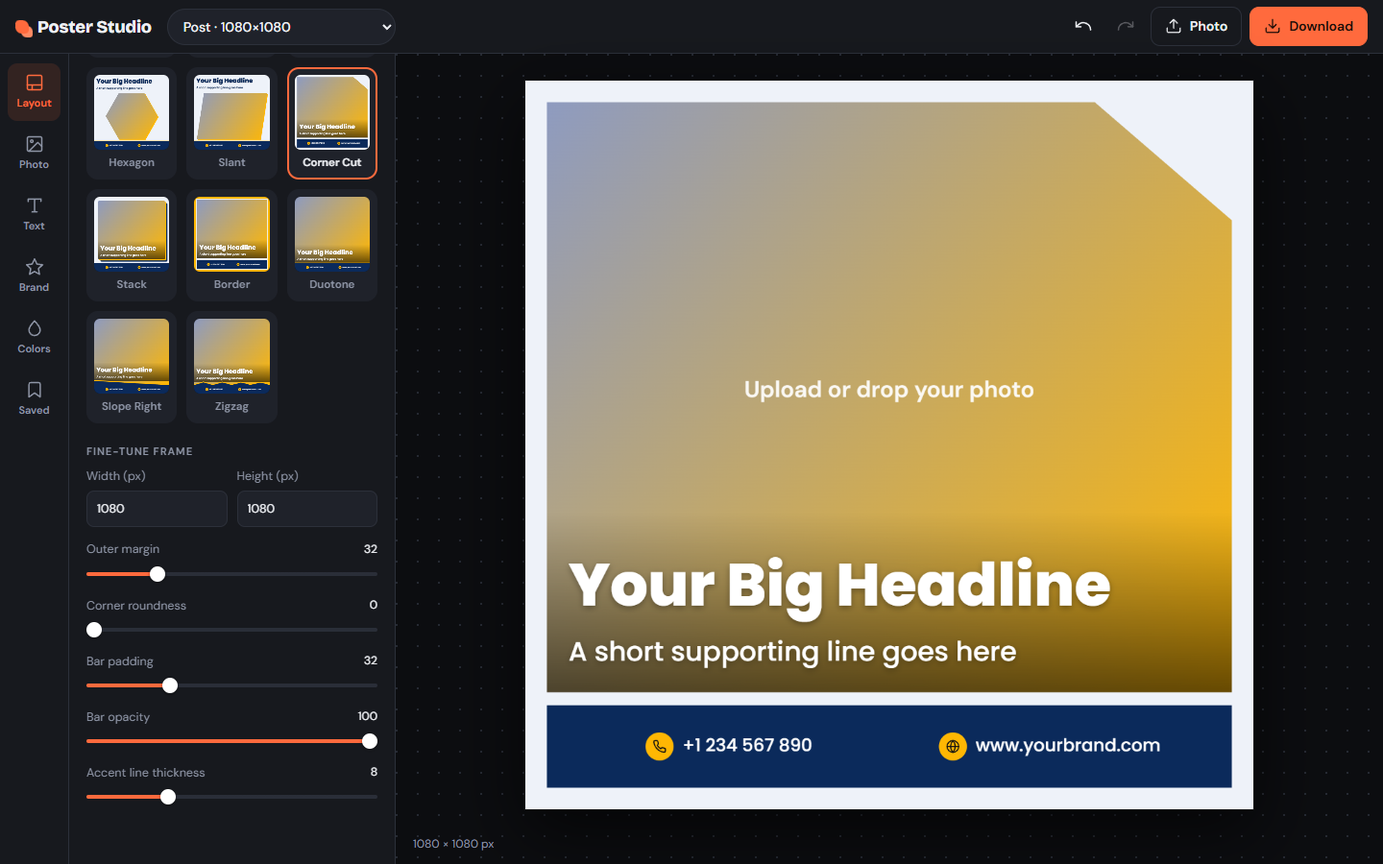
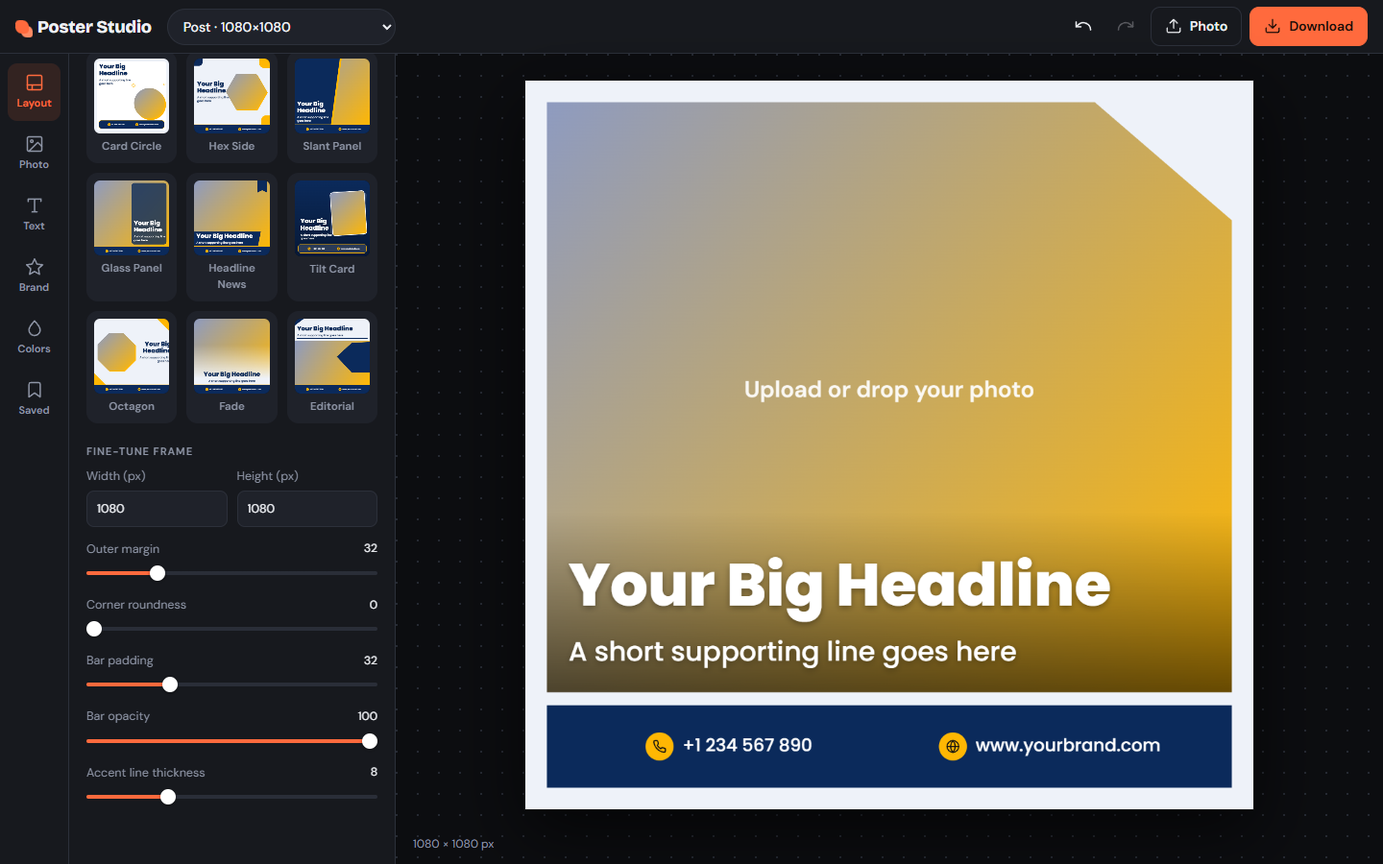
Update README and app.js, add new frame templates and images, and enhance layout functionality

diff --git a/app.js b/app.js
@@ -45,7 +45,7 @@ const TEMPLATES = {
   arch:     { name: 'Arch',     d: { margin: 48, radius: 28 }, bgText: true },
   circle:   { name: 'Circle',   d: { margin: 48, radius: 0 },  bgText: true },
   magazine: { name: 'Magazine', d: { margin: 0,  radius: 0 },  bgText: true },
-  ribbon:   { name: 'Ribbon',   d: { margin: 0,  radius: 0 } },
+  ribbon:   { name: 'Ribbon',   d: { margin: 0,  radius: 0 }, noScrim: true },
   curve:    { name: 'Curve',    d: { margin: 0,  radius: 90 } },
   pill:     { name: 'Pill',     d: { margin: 48, radius: 28 }, bgText: true },
   leafr:    { name: 'Leaf Flip',d: { margin: 36, radius: 110 }, floating: true },
@@ -59,7 +59,17 @@ const TEMPLATES = {
   border:   { name: 'Border',   d: { margin: 44, radius: 0 },  floating: true },
   duotone:  { name: 'Duotone',  d: { margin: 0,  radius: 0 } },
   diagonalr:{ name: 'Slope Right', d: { margin: 0, radius: 0 } },
-  zigzag:   { name: 'Zigzag',   d: { margin: 0,  radius: 0 } }
+  zigzag:   { name: 'Zigzag',   d: { margin: 0,  radius: 0 } },
+  neon:     { name: 'Neon Frame', d: { margin: 64, radius: 36 }, floating: true },
+  cardcircle:{ name: 'Card Circle', d: { margin: 40, radius: 44 }, floating: true, barInset: 1.7, bgText: true },
+  hexside:  { name: 'Hex Side', d: { margin: 44, radius: 0 }, bgText: true, poly: [[.25, 0], [.75, 0], [1, .5], [.75, 1], [.25, 1], [0, .5]] },
+  slantpanel:{ name: 'Slant Panel', d: { margin: 0, radius: 0 }, noScrim: true },
+  glass:    { name: 'Glass Panel', d: { margin: 36, radius: 40 }, noScrim: true },
+  news:     { name: 'Headline News', d: { margin: 0, radius: 0 }, noScrim: true },
+  tilt:     { name: 'Tilt Card', d: { margin: 48, radius: 36 }, floating: true, noScrim: true },
+  octagon:  { name: 'Octagon',  d: { margin: 48, radius: 0 }, bgText: true, poly: [[.3, 0], [.7, 0], [1, .3], [1, .7], [.7, 1], [.3, 1], [0, .7], [0, .3]] },
+  fade:     { name: 'Fade',     d: { margin: 0,  radius: 0 }, bgText: true },
+  editorial:{ name: 'Editorial', d: { margin: 0, radius: 0 }, bgText: true }
 };
 
 const PALETTES = [
@@ -217,9 +227,15 @@ function measureBlocks(maxW, u) {
   ['headline', 'subtitle'].forEach(k => {
     const T = state[k];
     if (!T.on || !T.text.trim()) return;
-    const size = T.size * u;
-    setTextFont(T, size, u);
-    const lines = wrap(T.upper ? T.text.toUpperCase() : T.text, maxW - (T.bxOn ? 2 * T.bxPad * u : 0));
+    let size = T.size * u, lines;
+    const avail = maxW - (T.bxOn ? 2 * T.bxPad * u : 0), txt = T.upper ? T.text.toUpperCase() : T.text;
+    for (let pass = 0; pass < 3; pass++) {
+      setTextFont(T, size, u);
+      lines = wrap(txt, avail);
+      const widest = Math.max(...lines.map(l => ctx.measureText(l).width));
+      if (widest <= avail + 1) break;
+      size = Math.max(size * avail / widest * 0.98, T.size * u * 0.4);   // shrink so a long word never spills out of its area
+    }
     blocks.push({ k, T, size, lh: size * T.lh, lines });
   });
   resetSpacing();
@@ -242,7 +258,8 @@ function layout() {
     : T === 'wave' ? x => edgeAmp * (0.5 + 0.5 * Math.cos(x / W * Math.PI * 3))
     : T === 'zigzag' ? x => edgeAmp * Math.abs(((x / W * 8) % 2) - 1) : () => 0;
   const floating = !!TP.floating;
-  const barW = floating ? W - 2 * m : W;
+  const bi = m * (TP.barInset || 1);
+  const barW = floating ? W - 2 * bi : W;
   const innerW = barW - 2 * pad;
 
   let logoH = 0, logoW = 0;
@@ -269,12 +286,12 @@ function layout() {
   const hasBar = logoInBar || items.length > 0;
   const barH = hasBar ? contentH + 2 * pad + edgeAmp : 0;
 
-  const bar = floating ? { x: m, y: H - barH - m, w: barW, h: barH } : { x: 0, y: H - barH, w: W, h: barH };
+  const bar = floating ? { x: bi, y: H - barH - bi, w: barW, h: barH } : { x: 0, y: H - barH, w: W, h: barH };
 
   const tb = measureBlocks(W - 2 * pad, u);
   const tz = TP.bgText && tb ? tb.h + pad * 1.3 : 0;
 
-  let photo, photoR = 0, textArea = null, ring = null, offsetShape = false, splitTb = null;
+  let photo, photoR = 0, textArea = null, ring = null, offsetShape = false, splitTb = null, rot = 0, deco = null;
   const barTop = hasBar ? bar.y : H;
   switch (T) {
     case 'overlay': photo = { x: 0, y: 0, w: W, h: H }; break;
@@ -284,7 +301,71 @@ function layout() {
       textArea = { x: 0, w: W, y0: pad * 0.65, y1: tz - pad * 0.65, pos: 'top' };
       break;
     }
-    case 'framed': case 'outline': case 'leaf': case 'leafr': case 'cut': case 'border': {
+    case 'cardcircle': {
+      const card = { x: m, y: m, w: W - 2 * m, h: H - 2 * m };
+      const aBottom = hasBar ? bar.y - pad * 0.6 : H - m - pad;
+      const d = Math.max(Math.min(card.w * 0.44, aBottom - card.y - pad * 2), 60);
+      const cx = card.x + card.w - d / 2 - pad * 0.8, cy = aBottom - d / 2 - pad * 0.2;
+      photo = { x: cx - d / 2, y: cy - d / 2, w: d, h: d }; photoR = d / 2;
+      const tw = Math.max(card.w - d - pad * 3, 120);
+      splitTb = measureBlocks(tw, u);
+      textArea = { x: card.x, w: tw + 2 * pad, y0: card.y + pad * 0.9, y1: aBottom - pad, pos: 'top', align: 'left' };
+      deco = { card, cx, cy, d }; break;
+    }
+    case 'hexside': {
+      const mm = Math.max(m, pad * 0.8), availH = Math.max(barTop - 2 * mm, 100);
+      const pw = Math.min(W * 0.54, availH / 0.88);
+      photo = { x: W - mm - pw, y: mm + (availH - pw * 0.88) / 2, w: pw, h: pw * 0.88 };
+      const tw = Math.max(photo.x - mm - pad * 0.5, 120);
+      splitTb = measureBlocks(tw, u);
+      textArea = { x: mm - pad, w: tw + 2 * pad, y0: mm, y1: mm + availH, pos: 'center', align: 'left' };
+      offsetShape = true; break;
+    }
+    case 'slantpanel': {
+      photo = { x: 0, y: 0, w: W, h: H - barH };
+      const ph = photo.h, pw = W * 0.6, sl = W * 0.12, tw = Math.max(pw - sl - pad * 2, 120);
+      splitTb = measureBlocks(tw, u);
+      textArea = { x: 0, w: tw + 2 * pad, y0: pad, y1: ph - pad, pos: null, align: 'left' };
+      deco = { ph, pw, sl }; break;
+    }
+    case 'glass': {
+      photo = { x: 0, y: 0, w: W, h: H - barH };
+      const panel = { x: W * 0.5, y: m, w: W * 0.5 - m, h: Math.max(photo.h - 2 * m, 60) };
+      splitTb = measureBlocks(Math.max(panel.w - 2 * pad, 120), u);
+      textArea = { x: panel.x, w: panel.w, y0: panel.y + pad, y1: panel.y + panel.h - pad, pos: null, align: 'left' };
+      deco = { panel }; break;
+    }
+    case 'news': photo = { x: 0, y: 0, w: W, h: H - barH }; break;
+    case 'tilt': {
+      const bottom = hasBar ? bar.y - m * 0.5 : H - m, availH = Math.max(bottom - m, 100);
+      const pw = Math.min((W - 2 * m) * 0.5, availH / 1.2), ph = Math.min(pw * 1.25, availH);
+      photo = { x: W - m - pw - pad * 0.4, y: m + (availH - ph) / 2, w: pw, h: ph }; photoR = r; rot = -0.07;
+      const tw = Math.max(photo.x - m - pad * 1.4, 120);
+      splitTb = measureBlocks(tw, u);
+      textArea = { x: m, w: tw + 2 * pad, y0: m + pad, y1: bottom - pad, pos: null, align: 'left' };
+      break;
+    }
+    case 'octagon': {
+      const mm = Math.max(m, pad * 0.8), availH = Math.max(barTop - 2 * mm, 100);
+      const s = Math.min(W * 0.5, availH);
+      photo = { x: mm, y: mm + (availH - s) / 2, w: s, h: s };
+      const tx = photo.x + s + mm * 0.5, tw = Math.max(W - mm - tx, 120);
+      splitTb = measureBlocks(tw, u);
+      textArea = { x: tx - pad, w: tw + 2 * pad, y0: mm, y1: mm + availH, pos: 'center', align: 'right' };
+      offsetShape = true; break;
+    }
+    case 'fade': {
+      photo = { x: 0, y: 0, w: W, h: H - barH };
+      textArea = { x: 0, w: W, y0: pad, y1: barTop - pad, pos: 'bottom', align: 'center' }; break;
+    }
+    case 'editorial': {
+      const ty0 = pad * 3, th = tb ? tb.h : 0, lineH = Math.max(ac * 1.5, 6 * u);
+      const lineY = ty0 + th + pad * 0.35, zoneBottom = tb ? lineY + lineH : ty0, pTop = zoneBottom + pad * 0.8;
+      photo = { x: 0, y: pTop, w: W, h: Math.max(barTop - pTop, 60) };
+      textArea = { x: 0, w: W, y0: ty0, y1: ty0 + th, pos: 'top', align: 'left' };
+      deco = { lineY, lineH, hasText: !!tb }; break;
+    }
+    case 'framed': case 'outline': case 'leaf': case 'leafr': case 'cut': case 'border': case 'neon': {
       const bottom = hasBar ? bar.y - m * 0.6 : H - m;
       photo = { x: m, y: m, w: W - 2 * m, h: bottom - m };
       photoR = T === 'leaf' ? [r, 0, r, 0] : T === 'leafr' ? [0, r, 0, r] : r; break;
@@ -336,7 +417,7 @@ function layout() {
       y1: Math.min(photo.y + photo.h, hasBar ? bar.y - (floating ? pad * 0.3 : 0) : Infinity) - pad, pos: null };
   }
   return { u, m, pad, r, ac, items, logoInBar, logoW, logoH, left, gridW, fs, iconS, gap, cols, rows, rowH, gridH, cellW,
-    contentH, hasBar, barH, bar, photo, photoR, edgeAmp, edge, floating, tb: splitTb || tb, textArea, ring, offsetShape, poly: TP.poly || null };
+    contentH, hasBar, barH, bar, photo, photoR, edgeAmp, edge, floating, tb: splitTb || tb, textArea, ring, offsetShape, poly: TP.poly || null, rot, deco, barTop };
 }
 
 /* =====================================================================
@@ -401,6 +482,7 @@ function render(forExport) {
   ctx.textBaseline = 'alphabetic'; ctx.textAlign = 'left'; resetSpacing();
 
   ctx.fillStyle = S.colors.bg; ctx.fillRect(0, 0, S.w, S.h);
+  drawDecor(L, 'under');
 
   // offset accent shape (pop / arch)
   if (L.offsetShape && L.m > 0) {
@@ -418,13 +500,18 @@ function render(forExport) {
   // curve: bar color behind the rounded photo corners
   if (T === 'curve') { ctx.fillStyle = S.colors.bar; ctx.fillRect(0, photo.y + photo.h - L.r * 2, S.w, S.h); }
 
-  // photo
+  // photo (tilt layouts rotate it around its centre)
+  let rotated = false;
+  if (L.rot) {
+    const rx = photo.x + photo.w / 2, ry = photo.y + photo.h / 2;
+    ctx.save(); ctx.translate(rx, ry); ctx.rotate(L.rot); ctx.translate(-rx, -ry); rotated = true;
+  }
   ctx.save();
   shapePath(L, photo.x, photo.y, photo.w, photo.h); ctx.clip();
   if (photoImg) {
-    const c = coverParams(photo), P = S.photo, duo = T === 'duotone';
-    const f = (duo || P.brightness !== 100 || P.contrast !== 100 || P.saturation !== 100) && 'filter' in ctx;
-    if (f) ctx.filter = `brightness(${P.brightness}%) contrast(${P.contrast}%) saturate(${duo ? 0 : P.saturation}%)${duo ? ' contrast(1.15)' : ''}`;
+    const c = coverParams(photo), P = S.photo, duo = T === 'duotone', gray = duo || T === 'news';
+    const f = (gray || P.brightness !== 100 || P.contrast !== 100 || P.saturation !== 100) && 'filter' in ctx;
+    if (f) ctx.filter = `brightness(${P.brightness}%) contrast(${P.contrast}%) saturate(${gray ? 0 : P.saturation}%)${duo ? ' contrast(1.15)' : ''}`;
     ctx.drawImage(photoImg, c.x, c.y, c.dw, c.dh);
     if (f) ctx.filter = 'none';
     if (duo) {
@@ -445,7 +532,7 @@ function render(forExport) {
     }
   }
   const tb = L.tb, H = S.headline;
-  if (!TP.bgText && T !== 'ribbon' && H.scrim && tb && H.pos !== 'center') {
+  if (!TP.bgText && !TP.noScrim && H.scrim && tb && H.pos !== 'center') {
     const h = tb.h + pad * 3, ta = L.textArea;
     if (H.pos === 'top') {
       const g = ctx.createLinearGradient(0, photo.y, 0, photo.y + h);
@@ -459,6 +546,9 @@ function render(forExport) {
     }
   }
   ctx.restore();
+  if (T === 'tilt') { ctx.strokeStyle = '#ffffff'; ctx.lineWidth = 8 * u; shapePath(L, photo.x, photo.y, photo.w, photo.h); ctx.stroke(); }
+  if (rotated) ctx.restore();
+  drawDecor(L, 'over');
 
   // logo on photo
   if (logoImg && S.logo.placement.startsWith('photo')) {
@@ -466,7 +556,7 @@ function render(forExport) {
     ctx.drawImage(logoImg, lx, photo.y + pad, L.logoW, L.logoH);
   }
 
-  if (tb) drawText(tb, L.textArea, pad, u, TP.bgText, T === 'ribbon' ? S.colors.bar : null);
+  if (tb) drawText(tb, L.textArea, pad, u, TP.bgText, bandFor(L, T));
   if (L.hasBar) drawBar(L, T);
 
   // border template: thick accent frame
@@ -484,19 +574,96 @@ function render(forExport) {
   return L;
 }
 
+// A coloured band drawn behind the text block (Ribbon, Headline News)
+function bandFor(L, T) {
+  const S = state, ta = L.textArea, pad = L.pad, ac = L.ac;
+  if (T === 'ribbon') return (y, h) => { ctx.fillStyle = S.colors.bar; ctx.fillRect(ta.x, y - pad * 0.5, ta.w, h + pad); };
+  if (T === 'news') return (y, h) => {
+    const x0 = ta.x, x1 = ta.x + ta.w * 0.88, sk = pad * 1.2, y0 = y - pad * 0.5, y1 = y + h + pad * 0.5;
+    ctx.fillStyle = S.colors.bar;
+    ctx.beginPath(); ctx.moveTo(x0, y0); ctx.lineTo(x1, y0); ctx.lineTo(x1 - sk, y1); ctx.lineTo(x0, y1); ctx.closePath(); ctx.fill();
+    ctx.fillStyle = S.colors.accent; ctx.fillRect(x0, y1, (x1 - x0) * 0.6, Math.max(ac, 4 * L.u));
+  };
+  return null;
+}
+
+function shade(hex, f) {
+  const n = parseInt(hex.slice(1), 16);
+  const c = v => Math.round(clamp(v + (f < 0 ? v * f : (255 - v) * f), 0, 255));
+  return `rgb(${c(n >> 16)},${c((n >> 8) & 255)},${c(n & 255)})`;
+}
+
+// Template-specific decoration. 'under' runs before the photo, 'over' after it (before text and bar).
+function drawDecor(L, phase) {
+  const S = state, T = S.template, C = S.colors, W = S.w, H = S.h, u = L.u, pad = L.pad, ac = L.ac, D = L.deco, ph = L.photo;
+  const poly = (pts, fill) => {
+    ctx.beginPath(); pts.forEach(([x, y], i) => (i ? ctx.lineTo(x, y) : ctx.moveTo(x, y))); ctx.closePath();
+    ctx.fillStyle = fill; ctx.fill();
+  };
+  if (phase === 'under') {
+    if (T === 'cardcircle') {
+      ctx.fillStyle = lum(C.bg) < 0.5 ? 'rgba(255,255,255,0.08)' : '#ffffff';
+      rr(D.card.x, D.card.y, D.card.w, D.card.h, L.r); ctx.fill();
+      ctx.fillStyle = C.accent; ctx.beginPath(); ctx.arc(D.cx + D.d * 0.05, D.cy + D.d * 0.05, D.d / 2, 0, Math.PI * 2); ctx.fill();
+      ctx.strokeStyle = C.accent; ctx.lineWidth = Math.max(ac * 0.4, 2 * u);
+      ctx.beginPath(); ctx.arc(D.cx - D.d * 0.52, D.cy - D.d * 0.58, D.d * 0.05, 0, Math.PI * 2); ctx.stroke();
+      ctx.beginPath(); ctx.arc(D.cx + D.d * 0.5, D.cy - D.d * 0.62, D.d * 0.03, 0, Math.PI * 2); ctx.stroke();
+    } else if (T === 'hexside') {
+      const s = W * 0.14;
+      ctx.fillStyle = C.accent; rr(W - s, 0, s, s * 0.9, [0, 0, 0, s * 0.5]); ctx.fill();
+      rr(W - s * 0.8, L.barTop - s * 0.9, s * 0.8, s * 0.9, [s * 0.4, 0, 0, 0]); ctx.fill();
+      ctx.fillStyle = C.bar; rr(0, 0, s * 0.8, s * 0.7, [0, 0, s * 0.5, 0]); ctx.fill();
+    } else if (T === 'octagon') {
+      poly([[W * 0.84, 0], [W, 0], [W, W * 0.16]], C.accent);
+      poly([[0, L.barTop - W * 0.16], [W * 0.16, L.barTop], [0, L.barTop]], C.accent);
+    } else if (T === 'tilt') {
+      const g = ctx.createLinearGradient(0, 0, 0, H); g.addColorStop(0, C.bar); g.addColorStop(1, shade(C.bar, -0.4));
+      ctx.fillStyle = g; ctx.fillRect(0, 0, W, H);
+      const rx = ph.x + ph.w / 2, ry = ph.y + ph.h / 2;
+      ctx.save(); ctx.translate(rx, ry); ctx.rotate(0.05); ctx.translate(-rx, -ry);
+      ctx.fillStyle = 'rgba(255,255,255,0.18)'; rr(ph.x, ph.y, ph.w, ph.h, L.r); ctx.fill(); ctx.restore();
+    } else if (T === 'editorial') {
+      poly([[0, 0], [W * 0.12, 0], [0, W * 0.09]], C.bar);
+      if (D.hasText) { ctx.fillStyle = C.bar; ctx.fillRect(pad, D.lineY, W - 2 * pad, D.lineH); }
+    }
+    return;
+  }
+  // phase === 'over'
+  if (T === 'neon') {
+    const o = L.m * 0.4;
+    ctx.strokeStyle = C.accent; ctx.lineWidth = Math.max(ac * 0.7, 3 * u);
+    rr(ph.x - o, ph.y + o, ph.w, ph.h, L.r); ctx.stroke();
+  } else if (T === 'slantpanel') {
+    const t = ac * 2.4 + 8 * u;
+    poly([[D.pw, 0], [D.pw + t, 0], [D.pw - D.sl + t, D.ph], [D.pw - D.sl, D.ph]], C.accent);
+    poly([[0, 0], [D.pw, 0], [D.pw - D.sl, D.ph], [0, D.ph]], C.bar);
+  } else if (T === 'glass') {
+    ctx.fillStyle = rgba(C.bar, 0.8); rr(D.panel.x, D.panel.y, D.panel.w, D.panel.h, L.r); ctx.fill();
+  } else if (T === 'news') {
+    const tw = W * 0.13, x0 = W - pad * 1.2 - tw;
+    poly([[x0, 0], [x0 + tw, 0], [x0 + tw, tw * 1.25], [x0 + tw / 2, tw * 1.0], [x0, tw * 1.25]], C.bar);
+  } else if (T === 'fade') {
+    const y0 = ph.h * 0.4, g = ctx.createLinearGradient(0, y0, 0, ph.h * 0.9);
+    g.addColorStop(0, rgba(C.bg, 0)); g.addColorStop(1, rgba(C.bg, 1));
+    ctx.fillStyle = g; ctx.fillRect(0, y0, W, ph.h - y0 + 1);
+  } else if (T === 'editorial') {
+    poly([[W * 0.56, ph.y + ph.h * 0.36], [W * 0.76, ph.y + ph.h * 0.05], [W, ph.y + ph.h * 0.03], [W, ph.y + ph.h * 0.72], [W * 0.76, ph.y + ph.h * 0.72]], C.bar);
+  }
+}
+
 function drawText(tb, area, pad, u, onBg, band) {
   const H = state.headline;
-  const pos = area.pos || H.pos;
+  const pos = area.pos || H.pos, al = area.align || H.align;
   let y;
   if (pos === 'top') y = area.y0;
   else if (pos === 'bottom') y = area.y1 - tb.h;
   else y = (area.y0 + area.y1) / 2 - tb.h / 2;
-  if (band) { ctx.fillStyle = band; ctx.fillRect(area.x, y - pad * 0.5, area.w, tb.h + pad); }
+  if (band) band(y, tb.h);
   tb.blocks.forEach((b, bi) => {
     const T = b.T, bx = T.bxOn ? T.bxPad * u : 0;
     let ax;
-    if (H.align === 'left') ax = area.x + pad + bx; else if (H.align === 'right') ax = area.x + area.w - pad - bx; else ax = area.x + area.w / 2;
-    b.lines.forEach(ln => { drawLine(T, ln, ax, y, b.size, b.lh, H.align, u, onBg ? T.colorBg : T.color); y += b.lh; });
+    if (al === 'left') ax = area.x + pad + bx; else if (al === 'right') ax = area.x + area.w - pad - bx; else ax = area.x + area.w / 2;
+    b.lines.forEach(ln => { drawLine(T, ln, ax, y, b.size, b.lh, al, u, onBg ? T.colorBg : T.color); y += b.lh; });
     if (bi === 0) y += tb.gap;
   });
   resetSpacing();
@@ -546,11 +713,11 @@ function drawBar(L, T) {
     if (ac > 0) { ctx.fillStyle = S.colors.accent; poly(-ac * 1.6); ctx.fill(); }
     ctx.fillStyle = S.colors.bar; poly(0); ctx.fill();
   } else {
-    const topLine = ['classic', 'arch', 'circle', 'magazine', 'pill', 'split', 'ribbon', 'header', 'diamond', 'hexagon', 'slant', 'duotone'].includes(T);
+    const topLine = ['classic', 'arch', 'circle', 'magazine', 'pill', 'split', 'ribbon', 'header', 'diamond', 'hexagon', 'slant', 'duotone', 'hexside', 'slantpanel', 'glass', 'news', 'octagon', 'fade', 'editorial'].includes(T);
     if (topLine && ac > 0) { ctx.fillStyle = S.colors.accent; ctx.fillRect(bar.x, bar.y - ac, bar.w, ac); }
     if (T === 'pop' && ac > 0) { ctx.fillStyle = S.colors.accent; ctx.fillRect(bar.x, bar.y, bar.w, ac); }
-    ctx.fillStyle = S.colors.bar; rr(bar.x, bar.y, bar.w, bar.h, rad); ctx.fill();
-    if (['overlay', 'framed', 'leaf', 'leafr'].includes(T) && ac > 0) {
+    ctx.fillStyle = T === 'tilt' ? 'rgba(255,255,255,0.14)' : S.colors.bar; rr(bar.x, bar.y, bar.w, bar.h, rad); ctx.fill();
+    if (['overlay', 'framed', 'leaf', 'leafr', 'neon', 'cardcircle', 'tilt'].includes(T) && ac > 0) {
       ctx.strokeStyle = S.colors.accent; ctx.lineWidth = ac * 0.5;
       rr(bar.x, bar.y, bar.w, bar.h, rad); ctx.stroke();
     }

diff --git a/README.md b/README.md
@@ -22,7 +22,7 @@ It runs entirely in your browser. There is nothing to install, no account to cre
 - [Live demo](https://posterstudioapp.vercel.app/)
 - [Quick start](#quick-start)
 - [How to make your first poster](#how-to-make-your-first-poster)
-- [Frame template gallery](#frame-template-gallery-26-layouts)
+- [Frame template gallery](#frame-template-gallery-36-layouts)
 - [Editing text and effects](#editing-text-and-effects)
 - [Color themes](#color-themes)
 - [Brand: logo and contact bar](#brand-logo-and-contact-bar)
@@ -58,7 +58,7 @@ Typical uses: _"3 Ton Pickup for Rent"_ ads, product promotions, sale announceme
 
 |                                           |                                                                                                                                                                                                                                                                                            |
 | ----------------------------------------- | ------------------------------------------------------------------------------------------------------------------------------------------------------------------------------------------------------------------------------------------------------------------------------------------ |
-| **26 frame templates**                    | Classic, Overlay, Framed, Diagonal, Wave, Pop, Leaf, Outline, Arch, Circle, Magazine, Ribbon, Curve, Pill, Leaf Flip, Split, Header, Diamond, Hexagon, Slant, Corner Cut, Stack, Border, Duotone, Slope Right and Zigzag. Template previews are drawn live with your own photo and colors. |
+| **36 frame templates**                    | Classic, Overlay, Framed, Diagonal, Wave, Pop, Leaf, Outline, Arch, Circle, Magazine, Ribbon, Curve, Pill, Leaf Flip, Split, Header, Diamond, Hexagon, Slant, Corner Cut, Stack, Border, Duotone, Slope Right, Zigzag, Neon Frame, Card Circle, Hex Side, Slant Panel, Glass Panel, Headline News, Tilt Card, Octagon, Fade and Editorial. Template previews are drawn live with your own photo and colors. |
 | **48 color themes**                       | One click sets the background, bar, accent and text colors together. Or pick every color yourself.                                                                                                                                                                                         |
 | **Full headline and subtitle styling**    | 21 fonts, weight, size, letter spacing, line height, uppercase, italic, gradient fill, shadow or glow, outline and highlight box. Seven one-click quick styles.                                                                                                                            |
 | **Logo and contact bar**                  | Upload your logo once. Add phone, email, website, address, handle or Instagram with icons. Reorder, hide or add items.                                                                                                                                                                     |
@@ -119,11 +119,11 @@ The first four steps take about a minute. After that, your logo and contact deta
 
 ---
 
-## Frame template gallery (26 layouts)
+## Frame template gallery (36 layouts)
 
 Every layout below is a real export from Poster Studio with its **default settings**: the default color theme, headline and contact bar, and an empty photo placeholder. Add your own photo, logo and colors and each one becomes yours.
 
-![The Layout tab lists all 26 frame templates with live thumbnails](docs/screenshots/02-layout-templates.png)
+![The Layout tab lists all 36 frame templates with live thumbnails](docs/screenshots/02-layout-templates.png)
 
 | | | | |
 |:---:|:---:|:---:|:---:|
@@ -133,7 +133,9 @@ Every layout below is a real export from Poster Studio with its **default settin
 | <img src="docs/posters/curve.jpg" width="220" alt="Curve poster layout: rounded photo corners flowing into the bar"><br>**Curve** | <img src="docs/posters/pill.jpg" width="220" alt="Pill poster layout: capsule-shaped photo"><br>**Pill** | <img src="docs/posters/leafr.jpg" width="220" alt="Leaf Flip poster layout: mirrored diagonal rounded corners"><br>**Leaf Flip** | <img src="docs/posters/split.jpg" width="220" alt="Split poster layout: photo on the left and headline on the right"><br>**Split** |
 | <img src="docs/posters/header.jpg" width="220" alt="Header poster layout: headline above a full-width photo"><br>**Header** | <img src="docs/posters/diamond.jpg" width="220" alt="Diamond poster layout: diamond-shaped photo"><br>**Diamond** | <img src="docs/posters/hexagon.jpg" width="220" alt="Hexagon poster layout: hexagon-shaped photo"><br>**Hexagon** | <img src="docs/posters/slant.jpg" width="220" alt="Slant poster layout: parallelogram photo"><br>**Slant** |
 | <img src="docs/posters/cut.jpg" width="220" alt="Corner Cut poster layout: photo with a cut corner"><br>**Corner Cut** | <img src="docs/posters/stack.jpg" width="220" alt="Stack poster layout: layered offset cards behind the photo"><br>**Stack** | <img src="docs/posters/border.jpg" width="220" alt="Border poster layout: thick colored frame"><br>**Border** | <img src="docs/posters/duotone.jpg" width="220" alt="Duotone poster layout: two-tone color-graded photo"><br>**Duotone** |
-| <img src="docs/posters/diagonalr.jpg" width="220" alt="Slope Right poster layout: diagonal bar rising on the right"><br>**Slope Right** | <img src="docs/posters/zigzag.jpg" width="220" alt="Zigzag poster layout: zigzag contact bar edge"><br>**Zigzag** |  |  |
+| <img src="docs/posters/diagonalr.jpg" width="220" alt="Slope Right poster layout: diagonal bar rising on the right"><br>**Slope Right** | <img src="docs/posters/zigzag.jpg" width="220" alt="Zigzag poster layout: zigzag contact bar edge"><br>**Zigzag** | <img src="docs/posters/neon.jpg" width="220" alt="Neon Frame poster layout: offset accent outline around a rounded photo"><br>**Neon Frame** | <img src="docs/posters/cardcircle.jpg" width="220" alt="Card Circle poster layout: white card with a round photo and an outlined contact bar"><br>**Card Circle** |
+| <img src="docs/posters/hexside.jpg" width="220" alt="Hex Side poster layout: headline on the left and a hexagon photo on the right"><br>**Hex Side** | <img src="docs/posters/slantpanel.jpg" width="220" alt="Slant Panel poster layout: solid angled text panel over the photo"><br>**Slant Panel** | <img src="docs/posters/glass.jpg" width="220" alt="Glass Panel poster layout: translucent text panel over the photo"><br>**Glass Panel** | <img src="docs/posters/news.jpg" width="220" alt="Headline News poster layout: black-and-white photo with an angled headline band"><br>**Headline News** |
+| <img src="docs/posters/tilt.jpg" width="220" alt="Tilt Card poster layout: tilted photo card on a gradient background"><br>**Tilt Card** | <img src="docs/posters/octagon.jpg" width="220" alt="Octagon poster layout: octagon photo with right-aligned text"><br>**Octagon** | <img src="docs/posters/fade.jpg" width="220" alt="Fade poster layout: photo fading into the background behind a centered headline"><br>**Fade** | <img src="docs/posters/editorial.jpg" width="220" alt="Editorial poster layout: headline and accent rule above a photo with an angled shape"><br>**Editorial** |
 
 ### Works for stories and tall formats too
 
@@ -141,7 +143,7 @@ Every layout below is a real export from Poster Studio with its **default settin
 
 The same frame adapts to any size, shown here at **1080×1920** (Instagram and Facebook Story or Reel).
 
-> Layouts such as **Arch, Circle, Pill, Header, Diamond, Hexagon, Slant, Split and Magazine** place the headline on the _background_ instead of on top of the photo. For those, the text color control in the Text tab edits the "text on background" color, and a hint appears to remind you.
+> Layouts such as **Arch, Circle, Pill, Header, Diamond, Hexagon, Slant, Split, Magazine, Card Circle, Hex Side, Octagon, Fade and Editorial** place the headline on the _background_ instead of on top of the photo. For those, the text color control in the Text tab edits the "text on background" color, and a hint appears to remind you. **Slant Panel, Glass Panel, Tilt Card and Headline News** put the text on a colored panel or band, so they use the normal text color. Text in a narrow area shrinks automatically so long words never spill out.
 
 ---
 
